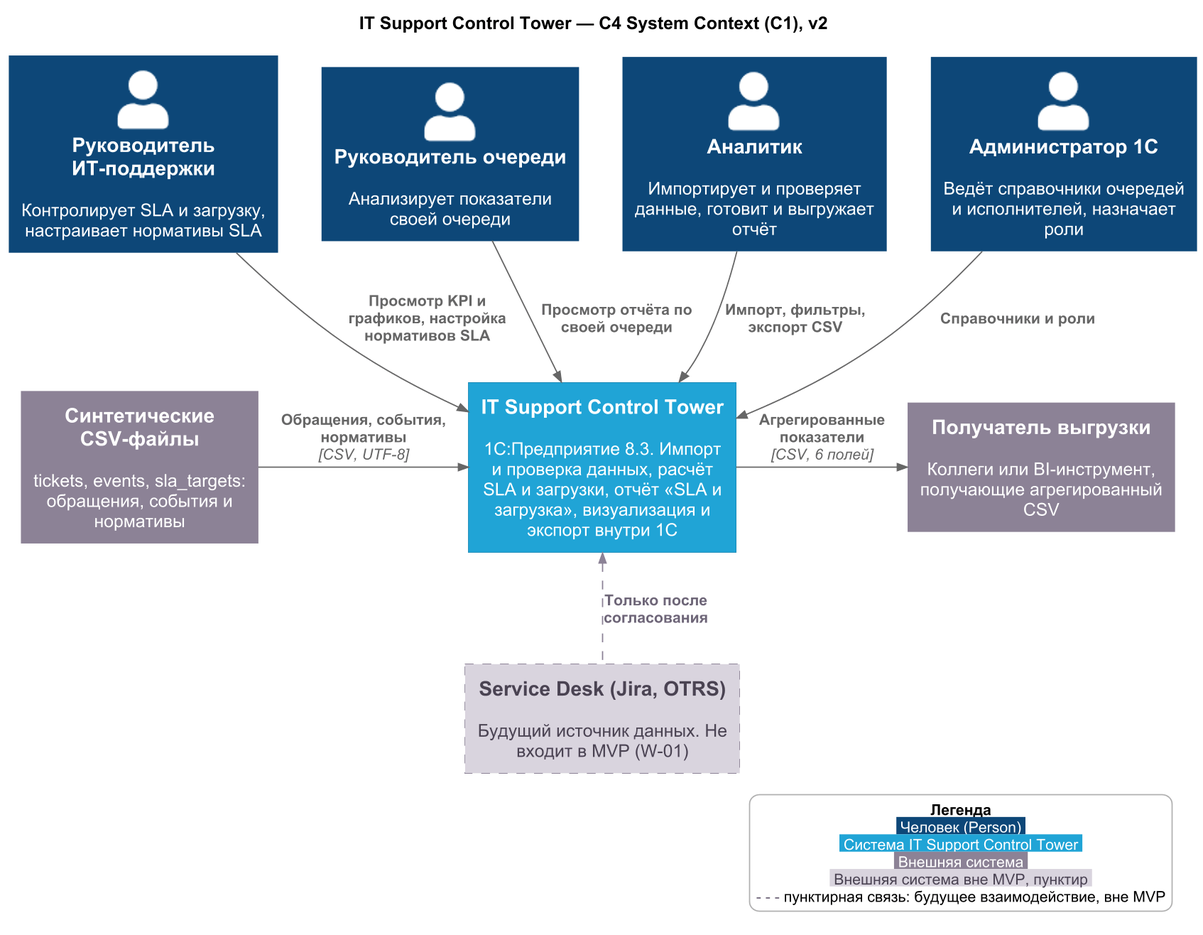
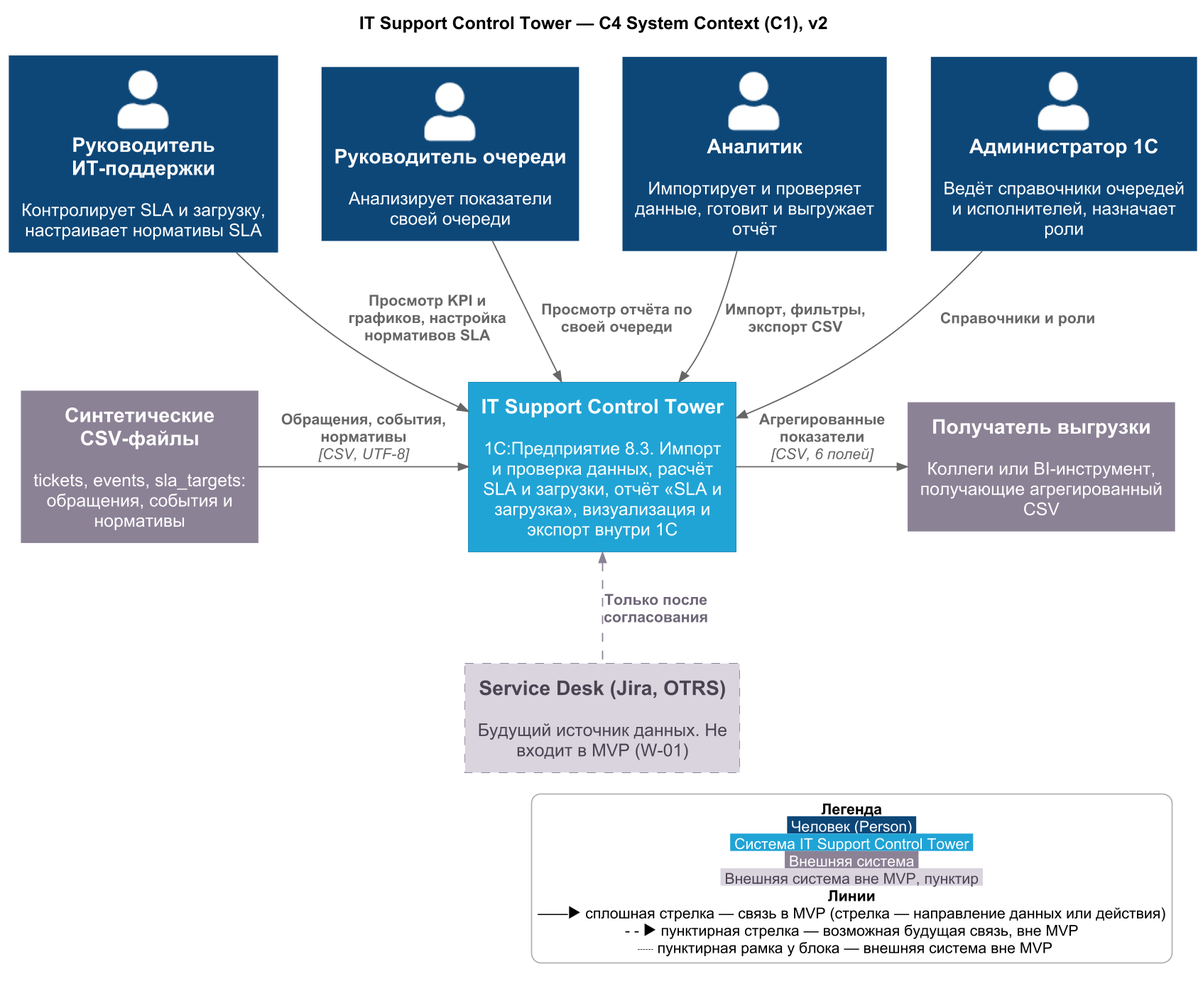
docs: address review: remove curator, change request register continuation, acceptance tests section, roles in plan, clearer C4 diagrams

Changed region(s): [[0.2456, 0.0, 1.0, 0.997], [0.0, 0.3739, 0.2149, 0.5919], [0.0, 0.0312, 0.2456, 0.3116]]

diff --git a/docs/work-plan.md b/docs/work-plan.md
@@ -17,46 +17,46 @@
 
 ## 2. Задачи по компонентам и пакетам работ
 
-Исполнители: Ватлин — R1, Торубаров — R2, Миронова — R3, Воробьёв — R4.
+Исполнители указаны ролями R1 – R4; состав команды — [TEAM.md](../TEAM.md).
 
 | Код | Задача | Пакет / компонент | Исп. | Часы | Зависит от | Итер. |
 |---|---|---|---|---|---|---|
-| З-01 | Метаданные справочников «Очереди», «Исполнители», «Приоритеты» и регистра «Нормативы SLA»; выгрузка конфигурации в репозиторий | 2 | Торубаров | 3 | — | 1 |
-| З-02 | Метаданные регистров обращений и событий | 1 | Торубаров | 2 | З-01 | 1 |
-| З-03 | К1. Читатель CSV | 1 / К1 | Торубаров | 4 | З-02 | 1 |
-| З-04 | К2. Валидатор структуры и обязательных полей (V1, V2) | 1 / К2 | Воробьёв | 3 | З-03 | 1 |
-| З-05 | К3. Валидатор ссылок (V3) | 1 / К3 | Воробьёв | 3 | З-03 | 1 |
-| З-06 | К4. Валидатор хронологии (V4) | 1 / К4 | Миронова | 3 | З-03 | 1 |
-| З-07 | К5. Валидатор уникальности событий (V5) | 1 / К5 | Ватлин | 2 | З-03 | 1 |
-| З-08 | К6. Проверка нормативов SLA (V6) | 1 / К6 | Ватлин | 2 | З-03 | 1 |
-| З-09 | Регистр «Журнал загрузок и расчётов» | 5 | Ватлин | 2 | З-01 | 1 |
-| З-10 | К8. Протоколист | 1 / К8 | Ватлин | 2 | З-03, З-09 | 1 |
-| З-11 | К7. Загрузчик с ключами идемпотентности (ADR-0003) | 1 / К7 | Торубаров | 5 | З-04 – З-08, З-10 | 1 |
-| З-12 | Форма «Импорт данных»: выбор файлов, итог, протокол ошибок | 1 / форма | Миронова | 3 | З-03 | 1 |
-| З-13 | Формы справочников, запрет удаления используемых записей | 2 | Миронова | 3 | З-01 | 1 |
-| З-14 | Форма «Цели SLA» с проверкой P1 – P3; начальные нормативы | 2 | Миронова | 4 | З-01 | 1 |
-| З-15 | Метаданные регистров результатов расчёта | 3 | Миронова | 2 | З-02 | 1 |
-| З-16 | Генератор синтетического набора ≥ 300 обращений; негативные образцы | 6.2 | Воробьёв | 6 | — | 1 |
-| З-17 | Подготовка приёмочных сценариев: данные и ожидаемые значения T-01 – T-21 | 6.3 | Воробьёв | 2 | З-16 | 1 |
-| З-18 | Ревью PR итерации 1, сверка реализации с C4 и ADR | 6.4 | Торубаров | 2 | — | 1 |
-| З-19 | Документация и реестры, часть 1: статусы ЗИ и поручений, журнал прогресса | 6.5 | Ватлин | 2 | — | 1 |
-| З-20 | Расчёт реакции, решения и нарушений раздельно; просроченное без события — нарушение (ОВ-3, ОВ-4) | 3 | Воробьёв | 5 | З-11, З-15 | 2 |
-| З-21 | Расчёт загрузки: активные обращения на исполнителя в день, средняя загрузка, разброс (максимум и минимум) | 3 | Воробьёв | 5 | З-11, З-15 | 2 |
-| З-22 | Регламентное задание и команда «Пересчитать», запись в журнал (ADR-0002) | 3 | Торубаров | 3 | З-20, З-21 | 2 |
-| З-23 | Сверка расчёта с контрольным набором `data/sample` | 3 | Ватлин | 2 | З-22 | 2 |
-| З-24 | Отчёт «SLA и загрузка» на СКД: свод, детализация, 4 фильтра | 4 | Миронова | 6 | З-22 | 2 |
-| З-25 | Диаграмма SLA по приоритетам, визуализация нагрузки | 4 | Миронова | 5 | З-24 | 2 |
-| З-26 | Отметка актуальности данных в отчёте (ЗИ-03) | 4 | Миронова | 1 | З-24 | 2 |
-| З-27 | Экспорт CSV из 6 полей по текущим фильтрам | 4 | Ватлин | 4 | З-24 | 2 |
-| З-28 | Форма журнала загрузок и расчётов | 5 | Ватлин | 2 | З-09, З-22 | 2 |
-| З-29 | Роли доступа: Аналитик, Руководитель ИТ-поддержки, Руководитель очереди, Администратор 1С (M-14) | 6.1 | Торубаров | 3 | З-12, З-24 | 2 |
-| З-30 | Проверка производительности на ≥ 300 обращениях (НФТ-01) | 6.3 | Воробьёв | 2 | З-16, З-25 | 2 |
-| З-31 | Прогон приёмочных проверок T-01 – T-21 | 6.3 | Воробьёв | 3 | З-17, З-23, З-26 – З-30 | 2 |
-| З-32 | Исправление дефектов по итогам приёмки: серверная часть | 6.3 | Торубаров | 2 | З-31 | 2 |
-| З-33 | Исправление дефектов по итогам приёмки: формы и отчёт | 6.3 | Миронова | 2 | З-31 | 2 |
-| З-34 | Ревью PR итерации 2, обновление C4 и ADR по реализации | 6.4 | Торубаров | 2 | — | 2 |
-| З-35 | Методика расчёта, инструкция запуска, сценарий демонстрации (M-12) | 6.5 | Ватлин | 3 | З-22 | 2 |
-| З-36 | Документация и реестры, часть 2; демонстрация куратору на M3 | 6.5 | Ватлин | 2 | З-32, З-33, З-35 | 2 |
+| З-01 | Метаданные справочников «Очереди», «Исполнители», «Приоритеты» и регистра «Нормативы SLA»; выгрузка конфигурации в репозиторий | 2 | R2 | 3 | — | 1 |
+| З-02 | Метаданные регистров обращений и событий | 1 | R2 | 2 | З-01 | 1 |
+| З-03 | К1. Читатель CSV | 1 / К1 | R2 | 4 | З-02 | 1 |
+| З-04 | К2. Валидатор структуры и обязательных полей (V1, V2) | 1 / К2 | R4 | 3 | З-03 | 1 |
+| З-05 | К3. Валидатор ссылок (V3) | 1 / К3 | R4 | 3 | З-03 | 1 |
+| З-06 | К4. Валидатор хронологии (V4) | 1 / К4 | R3 | 3 | З-03 | 1 |
+| З-07 | К5. Валидатор уникальности событий (V5) | 1 / К5 | R1 | 2 | З-03 | 1 |
+| З-08 | К6. Проверка нормативов SLA (V6) | 1 / К6 | R1 | 2 | З-03 | 1 |
+| З-09 | Регистр «Журнал загрузок и расчётов» | 5 | R1 | 2 | З-01 | 1 |
+| З-10 | К8. Протоколист | 1 / К8 | R1 | 2 | З-03, З-09 | 1 |
+| З-11 | К7. Загрузчик с ключами идемпотентности (ADR-0003) | 1 / К7 | R2 | 5 | З-04 – З-08, З-10 | 1 |
+| З-12 | Форма «Импорт данных»: выбор файлов, итог, протокол ошибок | 1 / форма | R3 | 3 | З-03 | 1 |
+| З-13 | Формы справочников, запрет удаления используемых записей | 2 | R3 | 3 | З-01 | 1 |
+| З-14 | Форма «Цели SLA» с проверкой P1 – P3; начальные нормативы | 2 | R3 | 4 | З-01 | 1 |
+| З-15 | Метаданные регистров результатов расчёта | 3 | R3 | 2 | З-02 | 1 |
+| З-16 | Генератор синтетического набора ≥ 300 обращений; негативные образцы | 6.2 | R4 | 6 | — | 1 |
+| З-17 | Подготовка приёмочных сценариев: данные и ожидаемые значения T-01 – T-21 | 6.3 | R4 | 2 | З-16 | 1 |
+| З-18 | Ревью PR итерации 1, сверка реализации с C4 и ADR | 6.4 | R2 | 2 | — | 1 |
+| З-19 | Документация и реестры, часть 1: статусы ЗИ и поручений, журнал прогресса | 6.5 | R1 | 2 | — | 1 |
+| З-20 | Расчёт реакции, решения и нарушений раздельно; просроченное без события — нарушение (ОВ-3, ОВ-4) | 3 | R4 | 5 | З-11, З-15 | 2 |
+| З-21 | Расчёт загрузки: активные обращения на исполнителя в день, средняя загрузка, разброс (максимум и минимум) | 3 | R4 | 5 | З-11, З-15 | 2 |
+| З-22 | Регламентное задание и команда «Пересчитать», запись в журнал (ADR-0002) | 3 | R2 | 3 | З-20, З-21 | 2 |
+| З-23 | Сверка расчёта с контрольным набором `data/sample` | 3 | R1 | 2 | З-22 | 2 |
+| З-24 | Отчёт «SLA и загрузка» на СКД: свод, детализация, 4 фильтра | 4 | R3 | 6 | З-22 | 2 |
+| З-25 | Диаграмма SLA по приоритетам, визуализация нагрузки | 4 | R3 | 5 | З-24 | 2 |
+| З-26 | Отметка актуальности данных в отчёте (ЗИ-03) | 4 | R3 | 1 | З-24 | 2 |
+| З-27 | Экспорт CSV из 6 полей по текущим фильтрам | 4 | R1 | 4 | З-24 | 2 |
+| З-28 | Форма журнала загрузок и расчётов | 5 | R1 | 2 | З-09, З-22 | 2 |
+| З-29 | Роли доступа: Аналитик, Руководитель ИТ-поддержки, Руководитель очереди, Администратор 1С (M-14) | 6.1 | R2 | 3 | З-12, З-24 | 2 |
+| З-30 | Проверка производительности на ≥ 300 обращениях (НФТ-01) | 6.3 | R4 | 2 | З-16, З-25 | 2 |
+| З-31 | Прогон приёмочных проверок T-01 – T-21 | 6.3 | R4 | 3 | З-17, З-23, З-26 – З-30 | 2 |
+| З-32 | Исправление дефектов по итогам приёмки: серверная часть | 6.3 | R2 | 2 | З-31 | 2 |
+| З-33 | Исправление дефектов по итогам приёмки: формы и отчёт | 6.3 | R3 | 2 | З-31 | 2 |
+| З-34 | Ревью PR итерации 2, обновление C4 и ADR по реализации | 6.4 | R2 | 2 | — | 2 |
+| З-35 | Методика расчёта, инструкция запуска, сценарий демонстрации (M-12) | 6.5 | R1 | 3 | З-22 | 2 |
+| З-36 | Документация и реестры, часть 2; демонстрация на M3 | 6.5 | R1 | 2 | З-32, З-33, З-35 | 2 |
 | | **Итого** | | | **107** | | |
 
 ## 3. Сравнение укрупнённой и детальной оценки
@@ -97,14 +97,14 @@
 
 ## 6. Загрузка команды
 
-Первый вариант распределения давал R2 22 ч в итерации 1 (больше 16 ч). По запросу ЗИ-06 задачи перераспределены: **З-07, З-08 (К5, К6), З-09 (регистр журнала) и З-10 (К8) переданы R1; З-06 (К4) и З-15 (регистры результатов) — R3; владелец пакета 5 — R1; RACI обновлена** ([work-packages.md](work-packages.md), раздел 2).
+Первый вариант распределения давал R2 22 ч в итерации 1 (больше 16 ч). По запросу ЗИ-06 (раздел 8) задачи перераспределены: **З-07, З-08 (К5, К6), З-09 (регистр журнала) и З-10 (К8) переданы R1; З-06 (К4) и З-15 (регистры результатов) — R3; владелец пакета 5 — R1; RACI обновлена** ([work-packages.md](work-packages.md), раздел 2).
 
 | Роль | Итерация 1, ч | Итерация 2, ч | Всего, ч | Доступно, ч | Комментарий |
 |---|---|---|---|---|---|
-| R1 (Ватлин) | 10 | 13 | 23 | 32 | Запас на координацию: совещания, реестры, отчёт куратору |
-| R2 (Торубаров) | 16 | 10 | 26 | 32 | Пик в итерации 1: начало критического пути |
-| R3 (Миронова) | 15 | 14 | 29 | 32 | Формы и отчёт |
-| R4 (Воробьёв) | 14 | 15 | 29 | 32 | Данные, расчёт, приёмка |
+| R1 | 10 | 13 | 23 | 32 | Запас на координацию: совещания, реестры, показ результатов |
+| R2 | 16 | 10 | 26 | 32 | Пик в итерации 1: начало критического пути |
+| R3 | 15 | 14 | 29 | 32 | Формы и отчёт |
+| R4 | 14 | 15 | 29 | 32 | Данные, расчёт, приёмка |
 | **Итого** | **55** | **52** | **107** | **128** | Резерв 21 ч (16 %) |
 
 Никто не превышает 16 ч за итерацию. Суммы пересчитаны скриптом по таблице раздела 2 ([04-progress.md](04-progress.md), раздел 3).
@@ -124,3 +124,23 @@
 | РК-13 | Приёмка и исправления в последние дни перед M3 | — | Средний (С × С) | Новый риск, владелец R4: внутренняя проверка T-01 – T-09 на M2, резерв 21 ч |
 
 Риска роста оценки нет: детальная оценка на 7 % ниже укрупнённой.
+
+## 8. Реестр запросов на изменение (продолжение)
+
+Продолжение реестра практики 5 ([work-packages.md](work-packages.md), раздел 4). Решения принимает тимлид R1.
+
+### 8.1. Состояние запросов практики 5
+
+| № | Изменение | Решение | Состояние на 17.11.26 |
+|---|---|---|---|
+| ЗИ-01 | Container v2: пять функциональных контейнеров | Принят | Выполнен: [c4-container.md](c4-container.md) v2.0 |
+| ЗИ-02 | Context v2: Администратор 1С, раздельные Аналитик и Руководитель очереди | Принят | Выполнен: [c4-context.md](c4-context.md) v2.0 |
+| ЗИ-03 | Отметка актуальности данных в отчёте | Принят | Запланирован: задача З-26, проверка T-21 |
+| ЗИ-04 | `breach_rate` на две колонки | Отклонён R1 | Закрыт: одна колонка, как в кейсе; смысл — ОВ-5 ([02-requirements.md](02-requirements.md), раздел 5) |
+| ЗИ-05 | M-14 «Роли доступа», НФТ-01 «Производительность» | Принят | Выполнен: требования в реестре, задачи З-29, З-30 |
+
+### 8.2. Новые запросы практики 6
+
+| № | Автор | Изменение и причина | Затрагивает | Влияние | Решение |
+|---|---|---|---|---|---|
+| ЗИ-06 | R1 | Перераспределить задачи по итогам детальной оценки: у R2 было 22 ч в итерации 1 при ёмкости 16 ч. З-07, З-08, З-09, З-10 → R1; З-06, З-15 → R3; владелец пакета 5 — R1 вместо R2 | План (раздел 6), RACI ([work-packages.md](work-packages.md), раздел 2) | 0 ч | Принят |

diff --git a/docs/02-requirements.md b/docs/02-requirements.md
@@ -2,7 +2,7 @@
 
 | Поле | Описание |
 |---|---|
-| Документ | Реестр требований с приоритетами MoSCoW, открытые вопросы, методика расчёта, матрица трассируемости (практики 2, 6) |
+| Документ | Реестр требований с приоритетами MoSCoW, открытые вопросы, методика расчёта, матрица трассируемости, приёмочные проверки (практики 2, 6) |
 | Версия | v1.1 |
 | Дата | 17.11.26 |
 | Статус | Проектная версия для согласования |
@@ -202,7 +202,35 @@ queue,priority,resp_avg,resolve_avg,breach_rate,load_avg
 
 У каждого требования Must есть задачи и проверка. Проверка таблицы: [04-progress.md](04-progress.md), раздел 3.
 
-## 9. Связанные артефакты
+## 9. Приёмочные проверки
+
+Проверки T-01 – T-21 подтверждают каждое требование Must из матрицы раздела 8. Данные — контрольный и негативный наборы [data/sample](../data/sample/README.md); ожидаемые значения пересчитаны скриптом [check_sample.py](../data/sample/check_sample.py). Прогонов ещё не было: статус «Запланировано». Подготовка — задача З-17, прогон — З-31, ответственный — R4. Полная версия с условиями прогона — [tests/README.md](../tests/README.md).
+
+| ID | Что проверяем | Ожидаемый результат | Треб. | Статус |
+|---|---|---|---|---|
+| T-01 | V1: загрузка `negative/tickets_missing_column.csv` | Файл не загружен; сообщение «нет колонки priority»; ИБ не изменилась | M-03, M-04 | Запланировано |
+| T-02 | V2: обращение N006 с пустым `created_at` | N006 отклонено, в протоколе правило V2 | M-04 | Запланировано |
+| T-03 | V3: обращение N002 с очередью `L9` | N002 отклонено, в протоколе правило V3 | M-04 | Запланировано |
+| T-04 | V4: N001, `resolved` раньше `first_response` | N001 отклонено, правило V4 | M-04 | Запланировано |
+| T-05 | V4: N005, `created_at` > `closed_at` | N005 отклонено, правило V4 | M-04 | Запланировано |
+| T-06 | V5: N003 с двумя `first_response` | N003 отклонено, правило V5 | M-04 | Запланировано |
+| T-07 | V6: N004 с приоритетом `P4` | N004 отклонено, правило V6 | M-04 | Запланировано |
+| T-08 | Загрузка контрольного набора и негативного набора | Контрольный: принято 9 обращений и 25 событий, отклонено 0. Негативный: принято 1 (N007), отклонено 6, в протоколе 6 строк | M-01, M-03 | Запланировано |
+| T-09 | Повторная загрузка контрольного набора | Добавлено 0; пропущено 9 обращений и 25 событий как дубликаты; показатели T-13 не изменились | M-13 | Запланировано |
+| T-10 | Граница норматива: T001 (15 / 60 мин при P1 15 / 60), T004 (реакция 30 при P2 30) | Нарушений нет | M-05, M-06 | Запланировано |
+| T-11 | Нарушения раздельно по реакции и решению | Реакция: 2 из 9 = 22,2 % (T002, T006). Решение: 3 из 8 = 37,5 % (T003, T005, T006) | M-06 | Запланировано |
+| T-12 | Нет события `resolved`: T005 (срок истёк до конца периода) и T009 (срок после конца периода) | Время решения у обоих «не рассчитано» (не 0). T005 — нарушение решения. T009 не входит в долю решения (знаменатель 8, а не 9) и в `breach_rate` | M-05, M-06 | Запланировано |
+| T-13 | Свод отчёта за 02.11 – 03.11.26 и сверка со скриптом | `resp_avg` 37,78; `resolve_avg` 167,14; `breach_rate` 50,0 %; диаграмма SLA по приоритетам P1 – P3 построена | M-05, M-08, M-10, M-12 | Запланировано |
+| T-14 | Загрузка по дням, разброс и визуализация нагрузки | E01: 3 и 1; E02: 1 и 2; E03: 2 и 2 (02.11 и 03.11); средняя 1,83; разброс: максимум 3, минимум 1; E01 02.11 выделен как пик | M-07, M-10 | Запланировано |
+| T-15 | Четыре фильтра | Период 03.11: 3 обращения, `resp_avg` 15,0, нарушений нет, загрузка 1,67. Очередь L2: 4 обращения, реакция 25,0 %, решение 50,0 %. Исполнитель E03: 3 обращения, решение 33,3 %, загрузка 2,0. Приоритет P1: 3 обращения, реакция 33,3 % | M-09 | Запланировано |
+| T-16 | Экспорт CSV без фильтров | Заголовок `queue,priority,resp_avg,resolve_avg,breach_rate,load_avg` и 6 строк (в строке `L1,P3` пустые `resolve_avg` и `breach_rate`), как в [data/sample/README.md](../data/sample/README.md), раздел 6.4; значения совпадают с отчётом | M-11 | Запланировано |
+| T-17 | Нормативы: сохранить без P3; затем изменить реакцию P1 на 20 мин и пересчитать | Без P3 не сохраняется, указан недостающий приоритет. После изменения: реакция 11,1 % (1 из 9), `breach_rate` 37,5 % | M-06 | Запланировано |
+| T-18 | Роли доступа | Руководитель ИТ-поддержки не видит команду импорта; Аналитик не может изменить нормативы; Руководитель очереди видит отчёт, но не нормативы и справочники; Администратор 1С меняет справочники | M-14 | Запланировано |
+| T-19 | Полный набор ≥ 300 обращений: загрузка, пересчёт, отчёт | Загружено ≥ 300 обращений без ошибок; отчёт формируется ≤ 10 с (НФТ-01) | M-02, НФТ-01 | Запланировано |
+| T-20 | Журнал загрузок и расчётов после T-08 и пересчёта | Записи: пользователь, время, принято 9 / отклонено 0; принято 1 / отклонено 6; пересчёт с порогами P1 – P3 | M-04, M-12 | Запланировано |
+| T-21 | Пересчёт и отметка актуальности | После команды «Пересчитать» отчёт показывает время последнего расчёта и пороги; повторный пересчёт не меняет значения | M-08, M-13 | Запланировано |
+
+## 10. Связанные артефакты
 
 - [Vision продукта](vision.md)
 - [C4 System Context, уровень C1](c4-context.md)

diff --git a/docs/work-packages.md b/docs/work-packages.md
@@ -32,7 +32,7 @@
 
 R — выполняет, A — отвечает за результат, C — консультирует, I — информируется. В каждой строке ровно одна A. Координатор плана — R1. Копия — [TEAM.md](../TEAM.md), раздел 3.
 
-| Пакет работ | R1 (Ватлин) | R2 (Торубаров) | R3 (Миронова) | R4 (Воробьёв) |
+| Пакет работ | R1 | R2 | R3 | R4 |
 |---|---|---|---|---|
 | 1. Модуль импорта и проверки CSV | R | A/R | R | R |
 | 2. Справочники и нормативы SLA | I | R | A/R | C |
@@ -59,7 +59,7 @@ R — выполняет, A — отвечает за результат, C — 
 | РК-4 | Разное понимание объёма MVP (устав v1.0) | С | С | 4, средний | R1 | MoSCoW и критерии приёмки | 6.5 |
 | РК-5 | Несогласованность артефактов команды (устав v1.0) | С | Н | 2, низкий | R1 | Единые ID и термины | 6.5 |
 | РК-6 | Меняется формат CSV | С | В | 6, высокий | R4 | Спецификация CSV v1.0; изменения через ЗИ; чтение колонок по заголовку | 1 |
-| РК-7 | Нет лицензии 1С или учебной базы у участников | С | В | 6, высокий | R2 | Учебная версия у каждого до 24.11.26; выгрузка конфигурации в репозиторий; эскалация куратору | все |
+| РК-7 | Нет лицензии 1С или учебной базы у участников | С | В | 6, высокий | R2 | Учебная версия у каждого до 24.11.26; выгрузка конфигурации в репозиторий; при проблемах решение принимает R1 | все |
 | РК-8 | Перегрузка R2: вся разработка 1С на одном человеке (42 ч при ёмкости 32 ч) | В | С | 6, высокий | R1 | Распределить компоненты по RACI; ревью вторым участником | 1, 3 |
 | РК-9 | Отсутствующие события ломают метрики | С | С | 4, средний | R4 | Правило ОВ-3, проверка T-12 | 3 |
 | РК-10 | Отчёт медленный на ≥ 300 обращениях | Н | С | 2, низкий | R3 | ADR-0002, замер З-30 | 4 |
@@ -67,7 +67,7 @@ R — выполняет, A — отвечает за результат, C — 
 
 ## 4. Реестр запросов на изменение
 
-Полный реестр с актуальными статусами — [01-charter.md](01-charter.md), приложение Б.
+Реестр практики 5. Продолжение с обновлёнными статусами и новыми запросами практики 6 — [work-plan.md](work-plan.md), раздел 8.
 
 | № | Автор | Изменение и причина | Затрагивает | Влияние | Решение |
 |---|---|---|---|---|---|
@@ -76,7 +76,6 @@ R — выполняет, A — отвечает за результат, C — 
 | ЗИ-03 | R2 | Отметка актуальности данных в отчёте (метрики считаются по расписанию) | M-08, пакет 4 | +1 ч | Принят |
 | ЗИ-04 | R4 | Разделить `breach_rate` на `breach_rate_resp` и `breach_rate_resolve` | M-11, пакет 4 | +1 ч | Отклонён 17.11.26: одна колонка, как в кейсе |
 | ЗИ-05 | R1 | Добавить M-14 «Роли доступа» и НФТ-01 «Производительность» | MoSCoW, пакеты 6.1, 6.3 | +5 ч (в оценке) | Принят |
-| ЗИ-06 | R1 | Перераспределить задачи после детальной оценки; пакет 5 — R1 | План, RACI | 0 ч | Принят (практика 6) |
 
 ## 5. Регламент коммуникаций по архитектуре
 
@@ -84,8 +83,8 @@ R — выполняет, A — отвечает за результат, C — 
 
 | Событие | Участники | Когда | Результат |
 |---|---|---|---|
-| Рабочее совещание по архитектуре | R1 (ведущий), R2 (архитектор), R3, R4; куратор при необходимости | На практических занятиях | Протокол: решения → ADR, поручения → задачи трекера |
+| Рабочее совещание по архитектуре | R1 (ведущий), R2 (архитектор), R3, R4 | На практических занятиях | Протокол: решения → ADR, поручения → задачи трекера |
 | Статус по поручениям и задачам | R1 и исполнители | Еженедельно, на встрече команды | Статусы в [04-progress.md](04-progress.md) |
 | Ревью запроса на слияние | Автор и второй участник; конфигурация 1С — R2 | По каждому PR | Комментарии и одобрение |
-| Согласование изменений | R1, R2; куратор, если затронуты Must или условия кейса | По мере поступления | Запись в реестре ЗИ |
-| Отчёт на контрольной точке | Вся команда, куратор | Вехи M1 – M4 | Демонстрация и статус пакетов работ |
+| Согласование изменений | R1 (тимлид, утверждает), R2 | По мере поступления | Запись в реестре ЗИ |
+| Отчёт на контрольной точке | Вся команда | Вехи M1 – M4 | Демонстрация и статус пакетов работ |

diff --git a/docs/meetings/2026-11-17-protocol-01.md b/docs/meetings/2026-11-17-protocol-01.md
@@ -3,7 +3,7 @@
 | Поле | Значение |
 |---|---|
 | Документ | Протокол рабочего совещания № 1 (практика 5) |
-| Статус | Утверждён: решения приняты единогласно. Позиция куратора на совещании не фиксировалась, вопросы к нему вынесены в поручение П-3 |
+| Статус | Утверждён: решения приняты единогласно |
 | Тема | Границы контейнеров и владельцы пакетов работ |
 | Когда | 17.11.26, второй мини-хакатон |
 | Ведущий | R1 (Ватлин В. Д.) |
@@ -20,8 +20,8 @@
 | 2 | Где считать метрики | Отделить расчёт от отчёта: регистры + регламентное задание и команда пересчёта | [ADR-0002](../adr/ADR-0002-calculation-separate-from-report.md) (поручение П-1) |
 | 3 | Ключ повторного импорта | `ticket_id`; для событий `ticket_id + event_type + ts` с проверкой уникальности | [ADR-0003](../adr/ADR-0003-idempotent-import-key.md) |
 | 4 | Владельцы пакетов | Назначить A по RACI: 1 — R2, 2 — R3, 3 — R4, 4 — R3, 5 — R2, 6.x — по матрице; координатор плана — R1 | [work-packages.md](../work-packages.md), раздел 2 |
-| 5 | Запросы на изменение | Принять ЗИ-01, ЗИ-02, ЗИ-03, ЗИ-05; ЗИ-04 (`breach_rate`) отложить до ответа куратора | [01-charter.md](../01-charter.md), прил. Б |
-| 6 | Открытые вопросы методики (календарное время, часовой пояс, отсутствующие события, `breach_rate`) | Работать на допущениях ОВ-1 – ОВ-5 до ответа куратора | [02-requirements.md](../02-requirements.md), раздел 5 |
+| 5 | Запросы на изменение | Принять ЗИ-01 (Container v2), ЗИ-02 (Context v2), ЗИ-03 (отметка актуальности), ЗИ-05 (M-14 и НФТ-01). ЗИ-04 (`breach_rate` на две колонки) отклонить: оставить одну колонку, как в кейсе | [01-charter.md](../01-charter.md), прил. Б |
+| 6 | Открытые вопросы методики (календарное время, часовой пояс, отсутствующие события, `breach_rate`) | Правила расчёта утверждает тимлид R1 (поручение П-3) | [02-requirements.md](../02-requirements.md), раздел 5 |
 
 ## 2. Поручения по итогам совещания
 
@@ -29,10 +29,10 @@
 |---|---|---|---|---|
 | П-1 | Оформить ADR-0002 о границе расчёта и отчёта | R2 | 17.11.26 | Файл `docs/adr/ADR-0002-*.md` в репозитории, статус «Принято» |
 | П-2 | Подготовить `data/sample`: спецификацию CSV, контрольный набор с ручным расчётом и негативные образцы | R4 | 17.11.26 | `data/sample/README.md`, CSV-файлы и ожидаемые значения в репозитории; числа совпадают с пересчётом |
-| П-3 | Согласовать с куратором кейса правила рабочего времени, часового пояса, отсутствующих событий и смысл `breach_rate` | R1 | 17.11.26 | Ответ куратора записан в [02-requirements.md](../02-requirements.md), раздел 5; ЗИ-04 получил решение |
+| П-3 | Утвердить правила расчёта: календарное или рабочее время, часовой пояс, отсутствующие события, смысл `breach_rate` | R1 | 17.11.26 | Правила записаны в [02-requirements.md](../02-requirements.md), раздел 5 |
 | П-4 | Внести риски РК-* в реестр устава с оценкой и владельцами | R1 | 17.11.26 | [01-charter.md](../01-charter.md), раздел 12.2: у каждого риска вероятность, влияние, ранг, владелец, мера |
 | П-5 | Обновить Context Diagram по ЗИ-02 | R2 + R3 | 17.11.26 | [c4-context.md](../c4-context.md) v2.0 и PNG в репозитории |
 
 ## 3. Контроль исполнения
 
-Статусы поручений ведутся в [04-progress.md](../04-progress.md), раздел 4. На 17.11.26 (контрольная точка практики 6): П-1, П-2, П-4, П-5 — выполнены; П-3 — снято: 17.11.26 команда утвердила правила расчёта сама, без куратора ([02-requirements.md](../02-requirements.md), раздел 5); ЗИ-04 отклонён.
+Статусы поручений ведутся в [04-progress.md](../04-progress.md), раздел 4. На 17.11.26 (контрольная точка практики 6): П-1 – П-5 — выполнены.

diff --git a/docs/04-progress.md b/docs/04-progress.md
@@ -20,7 +20,7 @@
 | 17.11.26 | **Контрольная точка практики 6** | Раздел 3 |
 | 17.11.26 | Все материалы собраны в `main` (PR #3), ветки участников удалены: их коммиты сохранены в истории `main`; команда предупреждена | [README](../README.md) |
 | 17.11.26 | Учебная 1С:Предприятие 8.3 есть у всех участников: риск РК-7 снижен до среднего | [01-charter.md](01-charter.md), раздел 12.2 |
-| 17.11.26 | Команда утвердила правила расчёта (ОВ-1 – ОВ-5) и решила противоречия В-1 – В-5 без обращения к куратору; П-3 снято, ЗИ-04 отклонён, РК-2 и РК-11 снижены | [02-requirements.md](02-requirements.md), раздел 5; раздел 6 ниже |
+| 17.11.26 | Команда утвердила правила расчёта (ОВ-1 – ОВ-5) и решила противоречия В-1 – В-5 (решения принял тимлид R1); П-3 выполнено, ЗИ-04 отклонён, РК-2 и РК-11 снижены | [02-requirements.md](02-requirements.md), раздел 5; раздел 6 ниже |
 | 17.11.26 | Проверены источники расчёта рынка: мировой рынок подтверждён, оценка российского рынка — ориентировочная | [market-analysis.md](market-analysis.md), раздел 1.5 |
 | 25.11.26 | План: проверка критического пути (РК-12) | Раздел 4 |
 | 01.12.26 | План: веха M2 «Импорт и проверка данных» | [01-charter.md](01-charter.md), раздел 15 |
@@ -78,7 +78,7 @@
 |---|---|---|---|---|---|---|
 | П-1 | ADR-0002 о границе расчёта и отчёта | R2 | 17.11.26 | Файл ADR в репозитории, статус «Принято» | Выполнено | [ADR-0002](adr/ADR-0002-calculation-separate-from-report.md) |
 | П-2 | `data/sample`: спецификация, контрольный набор, негативные образцы | R4 | 17.11.26 | Файлы в репозитории, числа совпадают с пересчётом | Выполнено | [data/sample/README.md](../data/sample/README.md) |
-| П-3 | Согласовать с куратором рабочее время, часовой пояс, отсутствующие события, `breach_rate` | R1 | 17.11.26 | Правила записаны в [02-requirements.md](02-requirements.md), раздел 5; решение по ЗИ-04 | Снято | Команда решила, что согласование с куратором не требуется, и 17.11.26 утвердила правила сама: календарное время, московский пояс, просроченное без события — нарушение, `breach_rate` — хотя бы одно нарушение. ЗИ-04 отклонён |
+| П-3 | Утвердить правила расчёта: время, часовой пояс, отсутствующие события, `breach_rate` | R1 | 17.11.26 | Правила в [02-requirements.md](02-requirements.md), раздел 5 | Выполнено | Календарное время, московский пояс, просроченное без события — нарушение, `breach_rate` — хотя бы одно нарушение. ЗИ-04 отклонён |
 | П-4 | Внести риски РК-* в реестр | R1 | 17.11.26 | У каждого риска вероятность, влияние, ранг, владелец, мера | Выполнено | [01-charter.md](01-charter.md), раздел 12.2 |
 | П-5 | Обновить Context Diagram по ЗИ-02 | R2 + R3 | 17.11.26 | c4-context v2.0 и PNG | Выполнено | [c4-context.md](c4-context.md) |
 
@@ -94,7 +94,6 @@
 |---|---|---|
 | Д-1 | Даты: итерация 1 — 18.11.26 – 01.12.26, итерация 2 — 02.12.26 – 15.12.26, M3 — 15.12.26, защита MVP — 22.12.26 | Устав, раздел 15; план работ |
 | Д-2 | Состав команды и роли R1 – R4 — как в карточке проекта | Все документы |
-| Д-3 | Преподаватель называется «куратор кейса» | Все документы |
 | Д-4 | Трекер — описание задач в документах и шаблон задачи; Issues в GitHub не заводились | [work-plan.md](work-plan.md), [templates/task.md](templates/task.md) |
 | Д-5 | Сдача — ветка `docs/practice-5-6` и Pull Request без мержа | — |
 | Д-6 | Матрица конкурентов, портрет пользователя и реестр акторов сделаны по имеющимся данным: в ветках их не было | [market-analysis.md](market-analysis.md), [use-cases.md](use-cases.md) |

diff --git a/docs/c4-container.md b/docs/c4-container.md
@@ -20,7 +20,8 @@
 
 ![C4 Container Diagram v2](images/c4_container.png)
 
-**Легенда:** тёмно-синие — люди; голубые — контейнеры системы (пакеты работ 1–5) и ИБ; серые — внешние системы; светло-серый с пунктиром — вне MVP. Пунктирная рамка — граница системы на 1С:Предприятие 8.3.
+**Легенда.** Цвета: тёмно-синие — люди; голубые — контейнеры системы (пакеты работ 1–5) и ИБ; серые — внешние системы; светло-серый — внешняя система вне MVP.
+**Линии:** сплошная стрелка — связь в MVP, стрелка показывает, куда идут данные или действие; пунктирная стрелка — возможная будущая связь вне MVP; пунктирная рамка вокруг блоков — граница системы на 1С:Предприятие 8.3; пунктирная рамка у блока — внешняя система вне MVP. Схема разложена так, чтобы связи не пересекались, кроме одной (экспорт и нормативы).
 
 Исходная схема v1.0: [c4_container_v1.png](images/c4_container_v1.png).
 
@@ -48,15 +49,17 @@
 | Руководитель ИТ-поддержки | 2. Нормативы; 4. Отчёт | Нормативы SLA; просмотр KPI | Управляемые формы |
 | Руководитель очереди | 4. Отчёт | Отчёт по своей очереди | Управляемая форма |
 | Администратор 1С | 2. Справочники | Очереди, исполнители, роли | Формы справочников |
-| 1. Импорт | 2. Справочники | Сверка ссылок и наличия нормативов | Вызов серверного модуля |
+| 1. Импорт | 2. Справочники | Сверка ссылок и наличия нормативов | Запрос к ИБ (на схеме не показано) |
 | 1. Импорт | ИБ | Новые обращения и события; дубли пропускаются | Запись регистров |
 | 1. Импорт | 5. Журнал | Итоги загрузки, строки ошибок | Запись регистра |
 | 3. Расчёт | ИБ | Чтение фактов, запись результатов | Запросы, запись регистров |
-| 3. Расчёт | 2. Нормативы | Действующие нормативы SLA | Запрос |
-| 3. Расчёт | 5. Журнал | Итоги пересчёта, время расчёта | Запись регистра |
+| 2. Нормативы | 3. Расчёт | Действующие нормативы SLA | Запрос |
+| 3. Расчёт | 5. Журнал | Итоги пересчёта, время расчёта | Запись регистра (на схеме не показано) |
 | 4. Отчёт | ИБ | Готовые результаты расчёта | Запрос СКД |
 | 4. Отчёт | Получатель выгрузки | Агрегированные показатели | CSV, 6 полей |
 | Service Desk | 1. Импорт | Будущий источник данных | Вне MVP, только после согласования |
+
+Чтобы схема читалась, на ней не показаны три второстепенные связи: 1 → 2 (сверка ссылок), 3 → 5 (итоги пересчёта), 5 → ИБ (хранение журнала). Все данные контейнеров физически хранятся в ИБ.
 
 ## 4. Почему не три контейнера
 

diff --git a/docs/c4-component.md b/docs/c4-component.md
@@ -20,7 +20,8 @@
 
 ![C4 Component Diagram](images/c4_component.png)
 
-**Легенда:** тёмно-синий — человек; светло-голубые — компоненты модуля импорта; голубые — другие контейнеры системы; серый — внешний источник. Пунктир — чтение справочников и нормативов; точечные линии — передача ошибок в протокол.
+**Легенда.** Цвета: тёмно-синий — человек; светло-голубые — компоненты модуля импорта; голубые — другие контейнеры системы; серый — внешний источник.
+**Линии:** сплошная стрелка — вызов или передача данных, стрелка показывает направление; пунктирная рамка — граница контейнера «Модуль импорта и проверки CSV». Ошибки проверок К2 – К6 передаются в К8 через К7, итог загрузки возвращается в форму (отдельными стрелками не показано, чтобы линии не пересекались).
 
 ## 3. Компоненты
 
@@ -48,8 +49,8 @@
 | К2 | К3 – К6 | Обращения с событиями, прошедшие V1 и V2 | Вызов |
 | К3, К6 | Справочники и нормативы SLA | Запрос наличия очереди, исполнителя, норматива | Запрос |
 | К3 – К6 | К7 | Обращения без ошибок | Вызов |
-| К2 – К6 | К8 | Найденные ошибки | Вызов |
+| К2 – К6 | К7 | Обращения с результатами проверок, включая ошибки | Вызов |
 | К7 | ИБ | Новые обращения и события | Запись регистров в одной транзакции на обращение |
-| К7 | К8 | Итоги записи | Вызов |
+| К7 | К8 | Итоги записи и ошибки проверок | Вызов |
 | К8 | Журнал загрузок и расчётов | Запись журнала | Запись регистра |
 | К8 | Форма «Импорт данных» | Итог и протокол | Возврат результата |

diff --git a/docs/03-architecture.md b/docs/03-architecture.md
@@ -25,7 +25,7 @@
 | C2 Container | 5 функциональных контейнеров и ИБ; каждый контейнер — пакет работ | [c4-container.md](c4-container.md) | [c4_container.png](images/c4_container.png) (v2), [c4_container_v1.png](images/c4_container_v1.png) (v1, R2) |
 | C3 Component | Компоненты модуля импорта и проверки CSV; каждый компонент — задача плана | [c4-component.md](c4-component.md) | [c4_component.png](images/c4_component.png) |
 
-Исходники схем — [diagrams/](diagrams/): C1 — PlantUML C4, C2 и C3 — Graphviz. Рендер: `plantuml -tpng -o ../images c4_context.puml`, `dot -Tpng -Gdpi=170 c4_container.dot -o ../images/c4_container.png`.
+Исходники схем — [diagrams/](diagrams/): C1 — PlantUML C4, C2 и C3 — Graphviz с ручной раскладкой. Рендер: `plantuml -tpng -o ../images c4_context.puml`, `neato -n -Tpng -Gdpi=150 c4_container.dot -o ../images/c4_container.png`. Значение линий — в легенде каждой схемы.
 
 ## 3. Архитектурные решения (ADR)
 

diff --git a/docs/c4-context.md b/docs/c4-context.md
@@ -15,7 +15,8 @@
 
 ![C4 Context Diagram](images/c4_context.png)
 
-**Легенда:** тёмно-синие — люди; синий — система; серые — внешние системы; светло-серый с пунктиром — внешняя система вне MVP, пунктирная стрелка — будущее взаимодействие.
+**Легенда.** Цвета: тёмно-синие — люди; синий — система; серые — внешние системы; светло-серый — внешняя система вне MVP.
+**Линии:** сплошная стрелка — связь в MVP, стрелка показывает, куда идут данные или действие; пунктирная стрелка — возможная будущая связь вне MVP (только после согласования); пунктирная рамка у блока — внешняя система вне MVP.
 
 ## 2. Элементы диаграммы
 

diff --git a/docs/adr/ADR-0001-platform-1c-only.md b/docs/adr/ADR-0001-platform-1c-only.md
@@ -24,7 +24,7 @@
 
 - Все контейнеры C2 — подсистемы одной конфигурации; нет API и внешнего обмена, кроме CSV.
 - Визуализация ограничена средствами 1С (диаграммы СКД); heatmap загрузки (UC-14) делается таблицей с условным оформлением.
-- Риск РК-1 снижен до среднего; если куратор одобрит вариант 2, нужно обновить C4, правила обмена, план и критерии приёмки через реестр ЗИ.
+- Риск РК-1 снижен до среднего; если команда решит перейти к варианту 2 (решение принимает R1), нужно обновить C4, правила обмена, план и критерии приёмки через реестр ЗИ.
 
 ## Трассировка R → A
 
